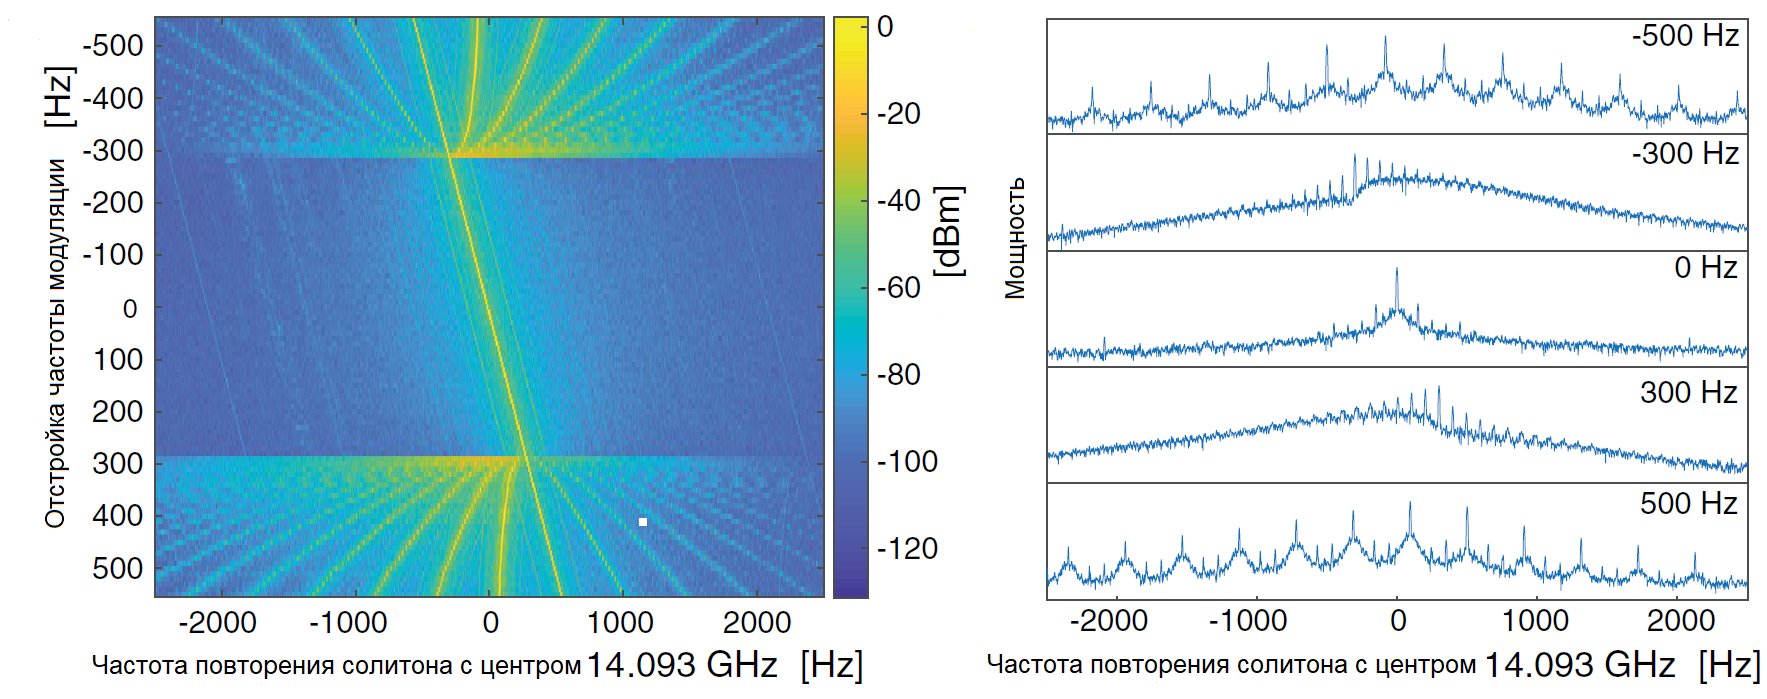
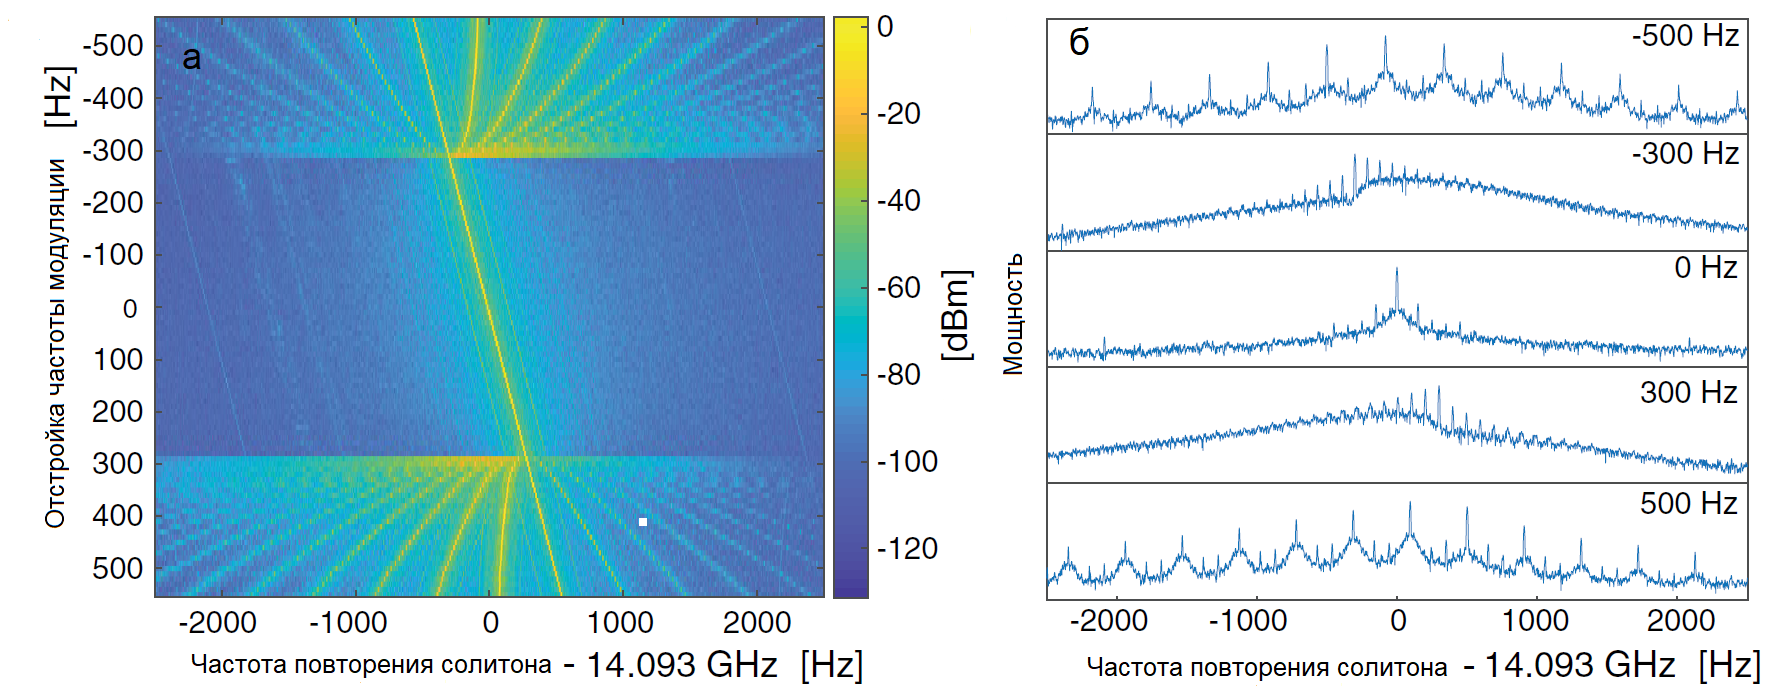
aftoreferat bilenko

diff --git a/Synopsis/content.tex b/Synopsis/content.tex
@@ -41,8 +41,8 @@
   \centering
 %  \includegraphics[width = 1\textwidth,height=0.5\textheight]{mgf2_100modes}
  % \includegraphics[width = 1\textwidth,height=0.5\textheight]{mgf2_100modes_modal}
-  \includegraphics[width = 0.9\textwidth]{mgf2_100modes}
-  \caption{Моделирование динамики генерации оптической частотной гребенки для 100 мод в резонаторе из $MgF_2$. Мощность накачки $100$ мВт. Лазер накачки перестраивается по частоте линейно во времени. На верхнем графике зависимость интенсивности суммарного поля внутри резонатора от отстройки частоты лазера видны характерные ступеньки, соответствующие солитонному режиму. В нижнем ряду показан спектр и соответствующий ему временной профиль солитона на указанной вертикальном пунктиром отстройке $\zeta_0$.}
+  \includegraphics[width = 0.9\textwidth]{mgf2_100modes_aftoreferat}
+  \caption{Моделирование динамики генерации оптической частотной гребенки для 100 мод в резонаторе из $MgF_2$. Лазер накачки перестраивается по частоте линейно во времени. (а) Зависимость интенсивности суммарного поля внутри резонатора от отстройки частоты лазера, видны характерные ступеньки, соответствующие солитонному режиму. (б) спектр и (в) соответствующий ему временной профиль солитона на указанной вертикальном пунктиром отстройке.}
   \label{100modes}
 \end{figure}
 
@@ -50,8 +50,8 @@
 
 \begin{figure}[!htb]
   \centering
-  \includegraphics[width = 0.9\textwidth,height=0.4\textheight]{platicons}
-  \caption{Характерные профили поля (зависимость суммарного поля $\Psi$ от временной координаты $\phi$) внутри резонатора с нормальной дисперсией (левая панель) и спектры темных солитоноподобных локализованных структур для различных значений отстройки частоты лазера (правая панель), получающиеся при локальном изменении дисперсионного закона вблизи моды накачки.}
+  \includegraphics[width = 0.9\textwidth,height=0.4\textheight]{platicons_aftoreferat}
+  \caption{(а-в) Характерные профили поля внутри резонатора с нормальной дисперсией и (г-е) спектры темных солитоноподобных структур для различных значений отстройки частоты лазера ($\zeta_0$), получающиеся при локальном изменении дисперсионного закона вблизи моды накачки.}
   \label{platicons}
 \end{figure}
 
@@ -73,7 +73,7 @@
   \begin{minipage}{0.32\linewidth}\centering
     \includegraphics[width=1\linewidth]{protrsuion_rect}
   \end{minipage}
-  \caption{Слева фото отполированного резонатора диаметром 1 мм на латунной подставке. По центру фото поверхности резонатора из $MgF_2$ сразу после точения, в котором достигается добротность $10^6$. Справа фрагмент поверхности резонатора с прямоугольными выступами размером 5 на 20, 25 мкм. Масштаб 100 мкм дан черным отрезком.}
+  \caption{(а) фото отполированного резонатора диаметром 1 мм на латунной подставке. (б) фото поверхности резонатора из $MgF_2$ сразу после точения, в котором достигается добротность $10^6$. (в) фрагмент поверхности резонатора с прямоугольными выступами размером 5 на 20, 25 мкм.}
   \label{cavity_polished}
 \end{figure}
 
@@ -85,9 +85,9 @@
   \end{minipage}
   \hfill
   \begin{minipage}{0.49\linewidth}\centering
-    \includegraphics[width=1\linewidth]{26G_soliton_beat2}
+    \includegraphics[width=1\linewidth]{26G_soliton_beat2_aftoreferat}
   \end{minipage}
-  \caption{Слева оптический спектр односолитонного режима, полученный в резонаторе диаметром 2.4 мм. Справа узкий сигнал биений на частоте повторения солитона 25.95 ГГц, ширина сигнала 100 Гц.}
+  \caption{(а) оптический спектр односолитонного режима, полученный в резонаторе диаметром 2.4 мм. (б) узкий сигнал биений на частоте повторения солитона 25.95 ГГц, ширина сигнала 100 Гц.}
   \label{clean_27GHz_single_soliton}
 \end{figure}
 
@@ -97,13 +97,13 @@
 
 \begin{figure}[!htb]
   \begin{minipage}{0.49\linewidth}\centering
-    \includegraphics[width=1\linewidth]{soliton_span_vs_detuning_2_4MHz}
+    \includegraphics[width=1\linewidth]{soliton_span_vs_detuning_2_4MHz_aftoreferat}
   \end{minipage}
   \hfill
   \begin{minipage}{0.49\linewidth}\centering
-    \includegraphics[width=1\linewidth]{reprates_vs_detuning_2_4MHz}
+    \includegraphics[width=1\linewidth]{reprates_vs_detuning_2_4MHz_aftoreferat}
   \end{minipage}
-  \caption{Слева оптические спектры односолитонных режимов, возбужденных на одной моде при разных отстройках частоты лазера накачки (красным - отстройка 2.5 МГц, синим - 4 МГц) Справа соответствующие сигналы биений на частоте повторения солитона, виден сдвиг частоты на 5 кГц при увеличении отстройки.}
+  \caption{(а) оптические спектры односолитонных режимов, возбужденных на одной моде при разных отстройках частоты лазера накачки (красным - отстройка 2.5 МГц, синим - 4 МГц). (б) соответствующие сигналы биений на частоте повторения солитона, виден сдвиг частоты на 5 кГц при увеличении отстройки.}
   \label{detuning_dependant}
 \end{figure}
 
@@ -112,7 +112,7 @@
 \begin{figure}[!htb]
   \centering
   \includegraphics[width=0.99\linewidth]{rep_rate_locking}
-  \caption{Слева спектрограмма эффекта захватывания частоты повторения солитона на линейно перестраиваемую частоту фазовой модуляции лазера накачки, видна область затягивания шириной 600 Гц, Справа спектр сигнала, полученный на быстродействующем фотодетекторе в режиме без захватывания (-500 Гц) и с захватыванием (0 Гц).}
+  \caption{(а) спектрограмма эффекта захватывания частоты повторения солитона на линейно перестраиваемую частоту фазовой модуляции лазера накачки, видна область затягивания шириной 600 Гц, (б) спектр сигнала, полученный на быстродействующем фотодетекторе в режиме без захватывания (-500 Гц) и с захватыванием (0 Гц).}
   \label{rep_rate_locking}
 \end{figure}
 
@@ -134,9 +134,9 @@
 
 \begin{figure}[!htb]
 \begin{minipage}{1\linewidth}
-\center{\includegraphics[width=0.5\linewidth]{dual_cavity}}
+\center{\includegraphics[width=0.5\linewidth]{dual_cavity_aftoreferat}}
 \end{minipage}
-\caption{(a): Фото стэка резонаторов на одном кристаллическом цилиндре с диаметром 5.68 мм. Вставка показывает 3 отполированных резонатора, в которых наблюдались солитоны; (b-d): оптический спектр солитонов, генерируемых в 3 различных резонаторах. Солитонные керровские частотные гребенки имеют ширину $30 - 65$ нм с расстоянием между линиями 12.1 ГГц.}
+\caption{(a): Фото стэка резонаторов на одном кристаллическом цилиндре с диаметром 5.68 мм. Вставка показывает 3 отполированных резонатора, в которых наблюдались солитоны; (б-г): оптический спектр солитонов, генерируемых в 3 различных резонаторах. Солитонные керровские частотные гребенки имеют ширину $30 - 65$ нм с расстоянием между линиями 12.1 ГГц.}
 \label{ris:image1}
 \end{figure}
 
